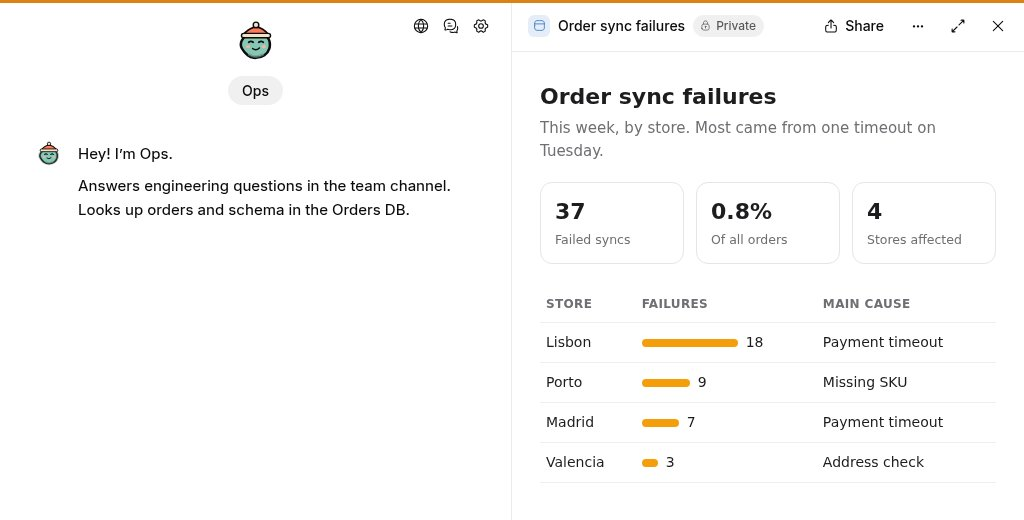
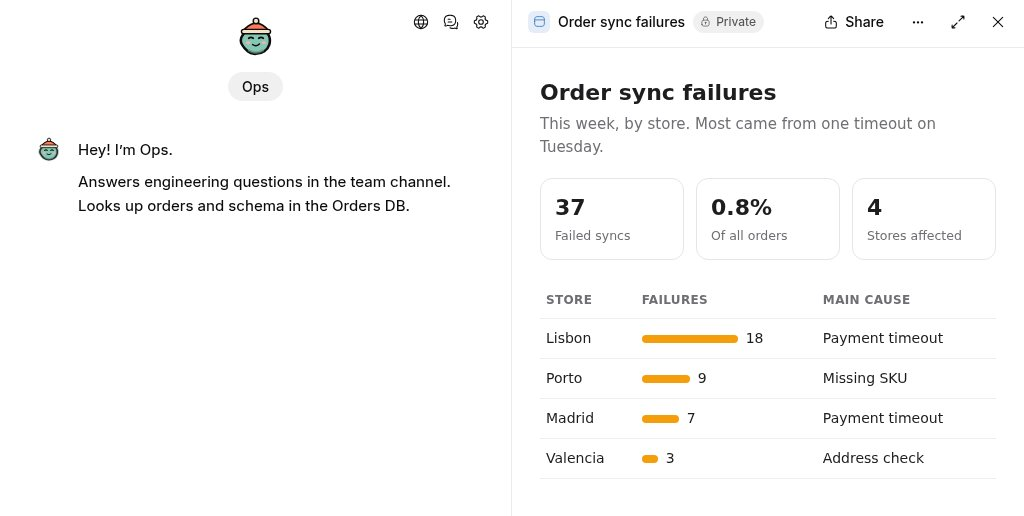
Changelog: crop the dev bar off two screenshots
OpenHut-Agent: Content Maintainer

diff --git a/packages/site/public/changelog.html b/packages/site/public/changelog.html
@@ -131,7 +131,7 @@ figcaption{margin-top:10px;font-size:13px;color:var(--mute)}
       <div>
         <h2>Pages and files from agents</h2>
         <p>Ask an agent for a report, a chart or a page, and it answers with a card that opens beside the chat. Share it with people on your team, the whole team or anyone with the link.</p>
-        <figure class="shot"><img src="/changelog/pages.jpg" alt="Ops's Order sync failures page open beside the chat, with Private and Share" width="1024" height="520" loading="lazy"></figure>
+        <figure class="shot"><img src="/changelog/pages.jpg" alt="Ops's Order sync failures page open beside the chat, with Private and Share" width="1024" height="516" loading="lazy"></figure>
       </div>
     </article>
     <article class="item" id="logs">
@@ -160,7 +160,7 @@ figcaption{margin-top:10px;font-size:13px;color:var(--mute)}
       <div>
         <h2>Alerts in their own thread</h2>
         <p>Related webhook calls, like an alert and its recovery, share one thread, and a resent call counts once. Each call shows as a card with its status and what happened.</p>
-        <figure class="shot"><img src="/changelog/webhook-threads.jpg" alt="Two GitHub Actions calls in one thread: Deploy on main failed, then succeeded" width="1024" height="545" loading="lazy"></figure>
+        <figure class="shot"><img src="/changelog/webhook-threads.jpg" alt="Two GitHub Actions calls in one thread: Deploy on main failed, then succeeded" width="1024" height="541" loading="lazy"></figure>
       </div>
     </article>
     <article class="item" id="setup">
